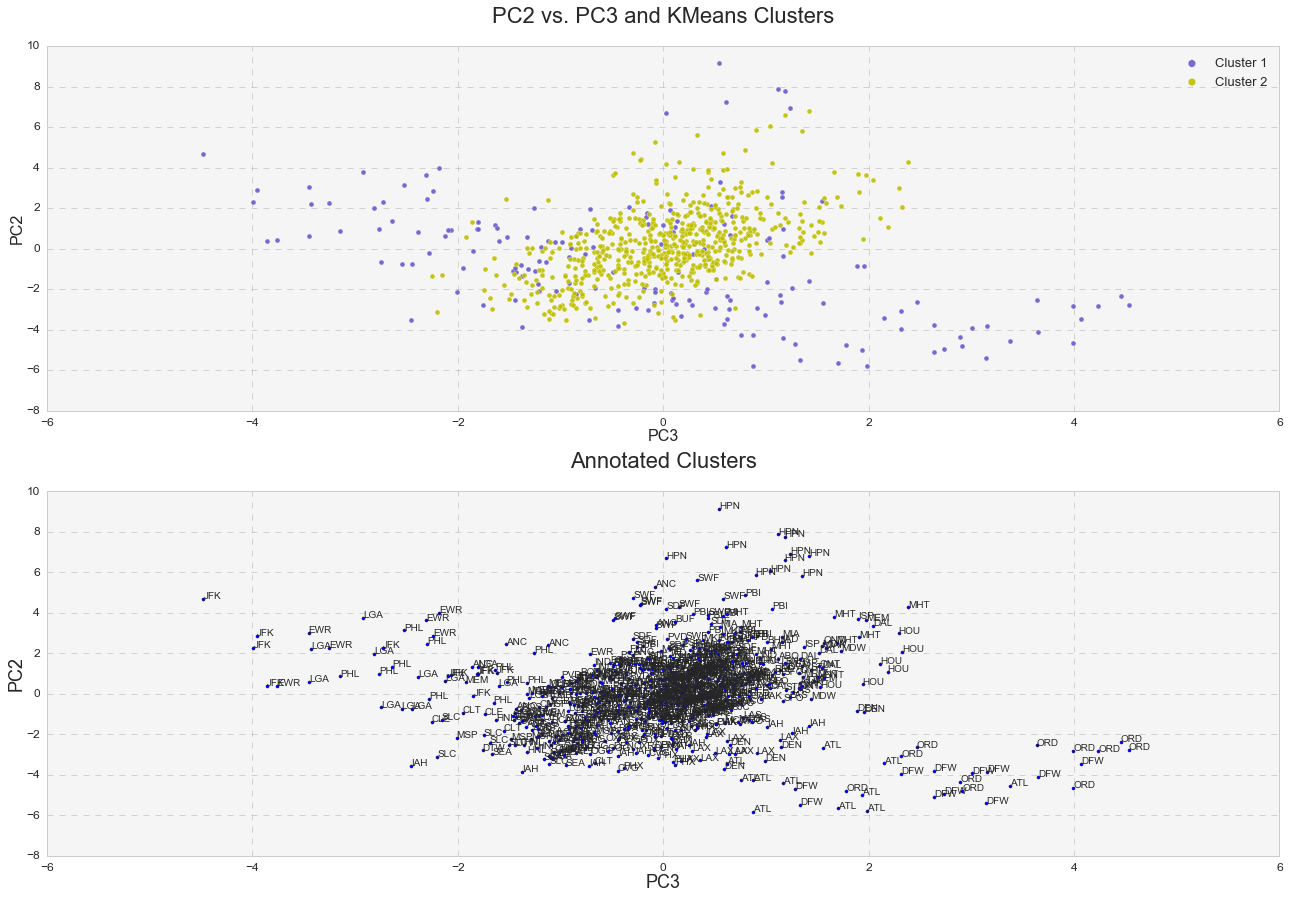
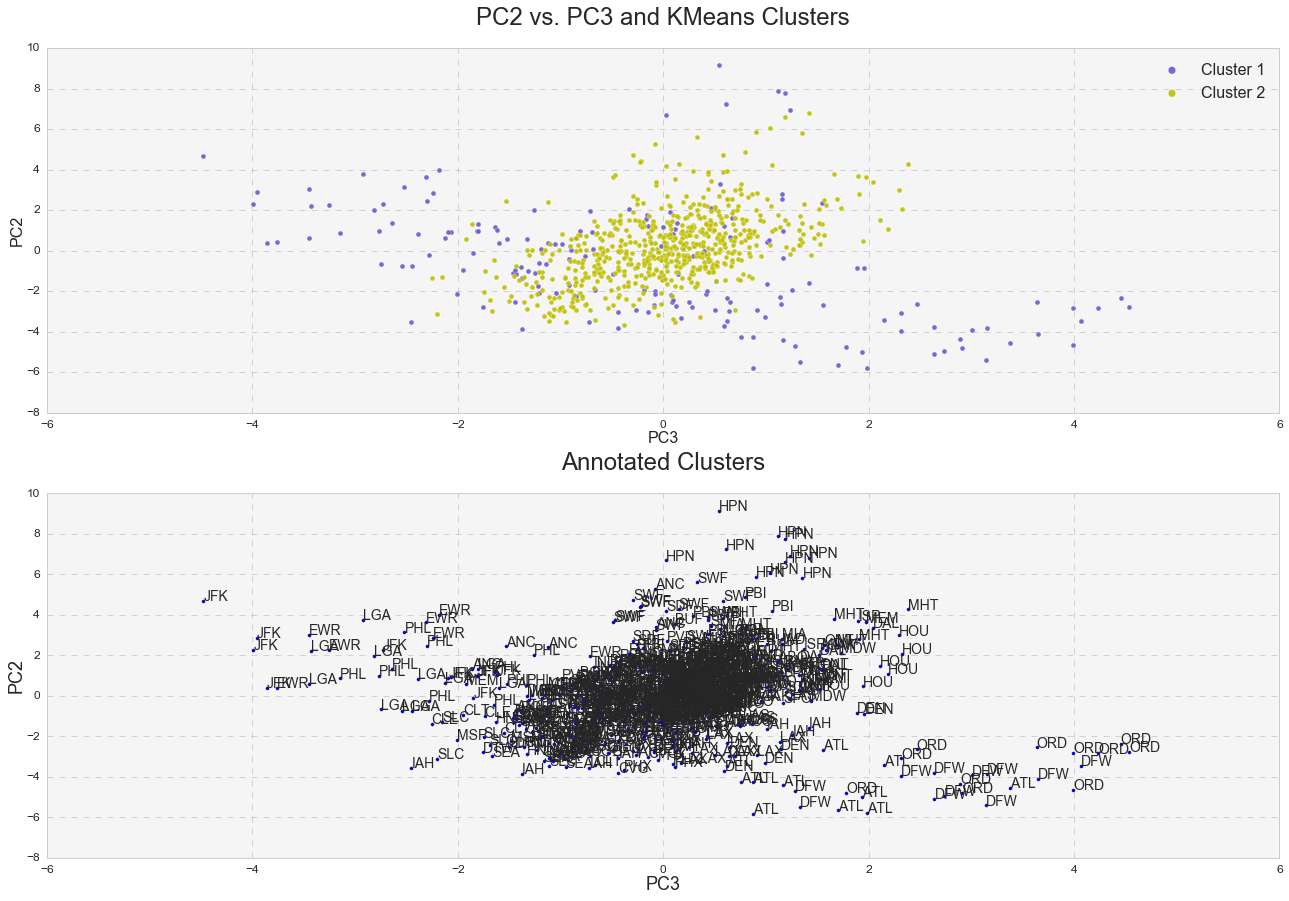
misc

diff --git a/_posts/2016-05-30-titanic.md b/_posts/2016-05-30-titanic.md
@@ -91,9 +91,7 @@ The bar plots below explore  the interaction between gender and class. It replic
 
 ### Imputation, Random Over-Sampling Technique, and Final Model
 
-Before conducting model selection and evaluation, several imputations were employed to impute missing data for Age. Imputation techniques are mostly suitable for continuous variables. I don’t think I have ever seen any imputation technique that impute categorical data, but I am sure in the age of data science everything is possible. 
-
-I used several advanced imputation techniques to impute the continuous variable Age. I am a very strong opponent of using mean or median imputation to impute data. It is very bad practice in general as it leads to distortion of relationship between variables by pulling estimates of the correlation towards zero. Thus, I applied 4 advanced techniques to impute the Titanic data: 1) KNN, 2) Convex Optimization, 3) Spectral Regulation Algorithm, and 4) Multiple Imputations by Chain Equations or MICE. 
+Before conducting model selection and evaluation, several imputations were employed to impute missing data for Age. I specifically used several advanced imputation techniques to impute the continuous variable Age since I am a very strong opponent of using mean or median imputation to impute data. It is a bad practice that leads to distortion of relationship between variables by pulling estimates of the correlation towards zero. Thus, I applied 4 advanced techniques to impute the Titanic data: 1) KNN, 2) Convex Optimization, 3) Spectral Regulation Algorithm, and 4) Multiple Imputations by Chain Equations or MICE. 
 
 To compare across the imputation algorithms, I used [root-mean-square error (RMSE)](https://en.wikipedia.org/wiki/Root-mean-square_deviation), replicating work by Schmitt, Mandel, and Guedj (2015). This method, however, did not bring me any success as I found no variations in imputation techniques detected by RMSE. Thus, I performed a model comparison (for review see Schmitt, Mandel, & Guedj, 2015) by comparing accuracy scores of various algorithms. See python codes and outputs [here](https://github.com/dmarinav/My_Projects/blob/master/TITANIC/Titanic2_Fancy_Imputation.ipynb). I finally chose the KNN imputation technique as it gave me the highest accuracy scores across the algorithms. 
 

diff --git a/_posts/2015-08-30-liqour.md b/_posts/2015-08-30-liqour.md
@@ -99,7 +99,7 @@ I chose the Decision Tree regressor and Ada Boost regressor as my final non-para
 ![Decision Tree]({{ site.url }}{{ site.baseurl }}/images/pic2_8.png){: .align-center} 
 
 
-As seen above, the decision tree regressor builds a regression model in the form of a tree structure. Here, I am only presenting a tree with maximum depth of 3, for a demonstration.  A decision node #0 has two original branches, sales that equals to or more than 52.76 and sales that equal to or more than 155.33, each representing values for the attribute the attribute tested. A measure of purity is calculated for each branch (or node), which represents the amount of information needed to classify instance as True or False. The branches split into smaller successively purer subsets further and further until they reach the best possible purity. 
+As seen above, the decision tree regressor builds a regression model in the form of a tree structure. Here, I am only presenting a tree with maximum depth of 3, for a demonstration. The decision node #0 has two original branches, sales that equals to or more than 52.76 and sales that equal to or more than 155.33, each representing values for the attribute the attribute tested. A measure of purity is calculated for each branch (or node), which represents the amount of information needed to classify instance as True or False. The branches split into smaller successively purer subsets further and further until they reach the best possible purity. 
 
 However, as seen below decision tree model perfectly fits the test data over 5 folds, and I am very suspicious that it might be a sign of overfitting.
  

diff --git a/_posts/2016-07-30-airports.md b/_posts/2016-07-30-airports.md
@@ -148,6 +148,8 @@ To illustrate my point better, I presented the observations in a two-dimensional
 
 
 [![PCA ns K-means]({{ site.url }}{{ site.baseurl }}/images/pic5_15.png)]({{ site.url }}{{ site.baseurl }}/images/pic5_15x.png)
+[![PCA ns K-means]({{ site.url }}{{ site.baseurl }}/images/pic5_16.png)]({{ site.url }}{{ site.baseurl }}/images/pic5_16x.png)
+[![PCA ns K-means]({{ site.url }}{{ site.baseurl }}/images/pic5_17.png)]({{ site.url }}{{ site.baseurl }}/images/pic5_17x.png)
 
 
 As seen above, the hierarchical clustering with the complete linkage forms two clusters – just like in the case of the k-means analysis. On the other hand, the hierarchical clustering with the average linkage forms one cluster and one outlier – just like in the case of the DBSCAN analysis. In reality, it forms two clusters, but because the second cluster consists only of one observation, the average linkage method surves as an outlier detector in this case. 
